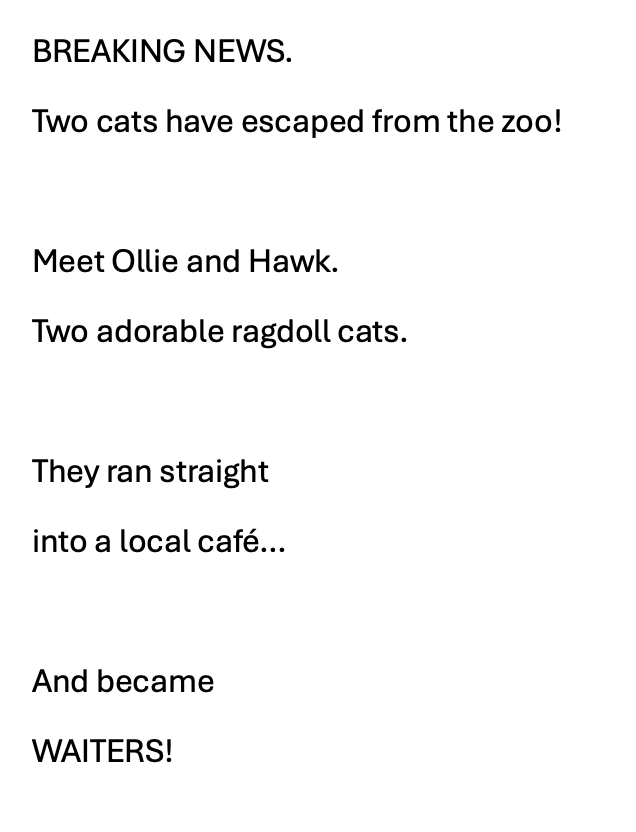
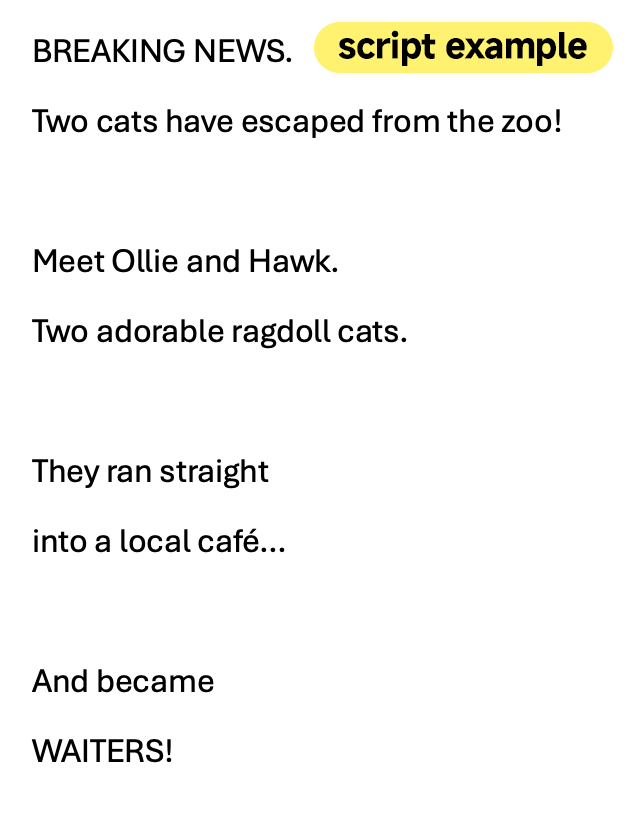
ui: label the script hover example

Changed region(s): [[0.478, 0.0, 0.9858, 0.0938]]

diff --git a/index.html b/index.html
@@ -55,7 +55,7 @@
           <div class="field-label example-heading">
             <span class="tooltip-anchor example-anchor" tabindex="0" aria-describedby="estimate-example">Estimate Timing
               <span class="tooltip script-example" role="tooltip" id="estimate-example">
-                <img src="images/script_screenshot.png" alt="Script example: blank lines separate caption blocks; lines within each block stay together.">
+                <img src="images/script_screenshot.png?v=2" alt="Script example: blank lines separate caption blocks; lines within each block stay together.">
               </span>
             </span>
           </div>
